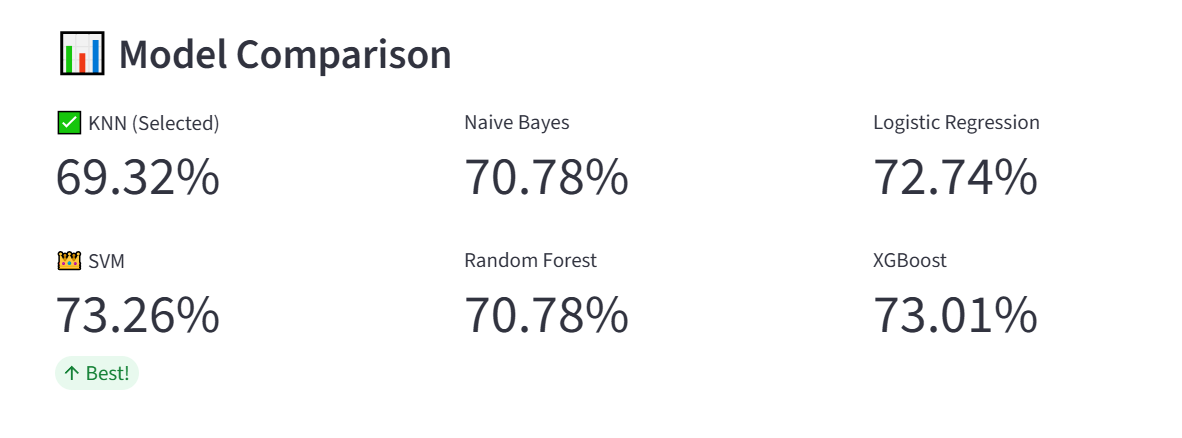
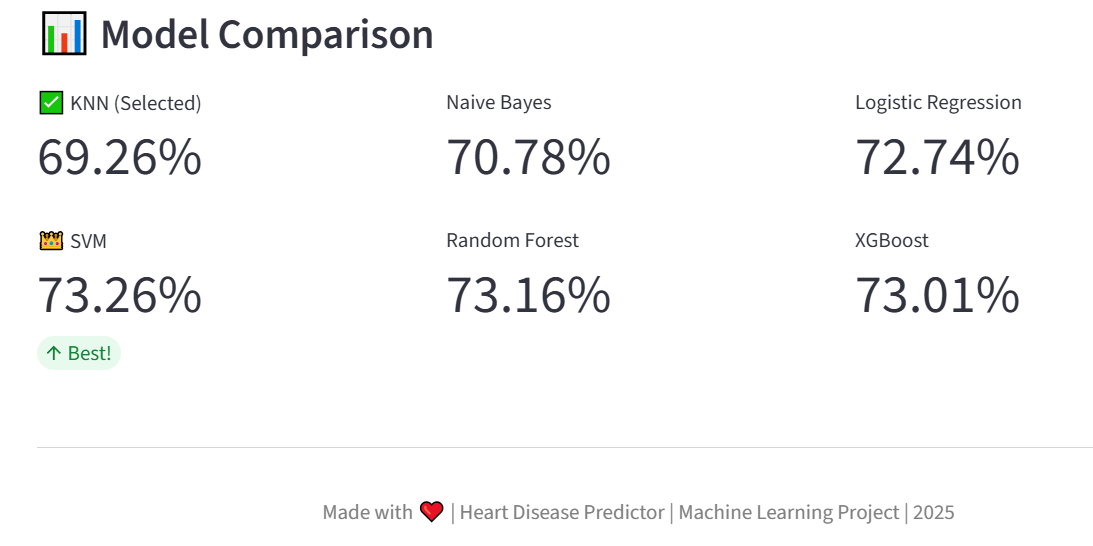
Update: Fix model accuracy values after retraining

diff --git a/README.md b/README.md
@@ -49,7 +49,7 @@ This project uses **6 different ML models** to predict whether a patient is at r
 | XGBoost | 73.01% |
 | Logistic Regression | 72.74% |
 | Naive Bayes | 70.78% |
-| Random Forest | 73.16,% |
+| Random Forest | 73.16% |
 | KNN | 69.26% |
 
 ---
